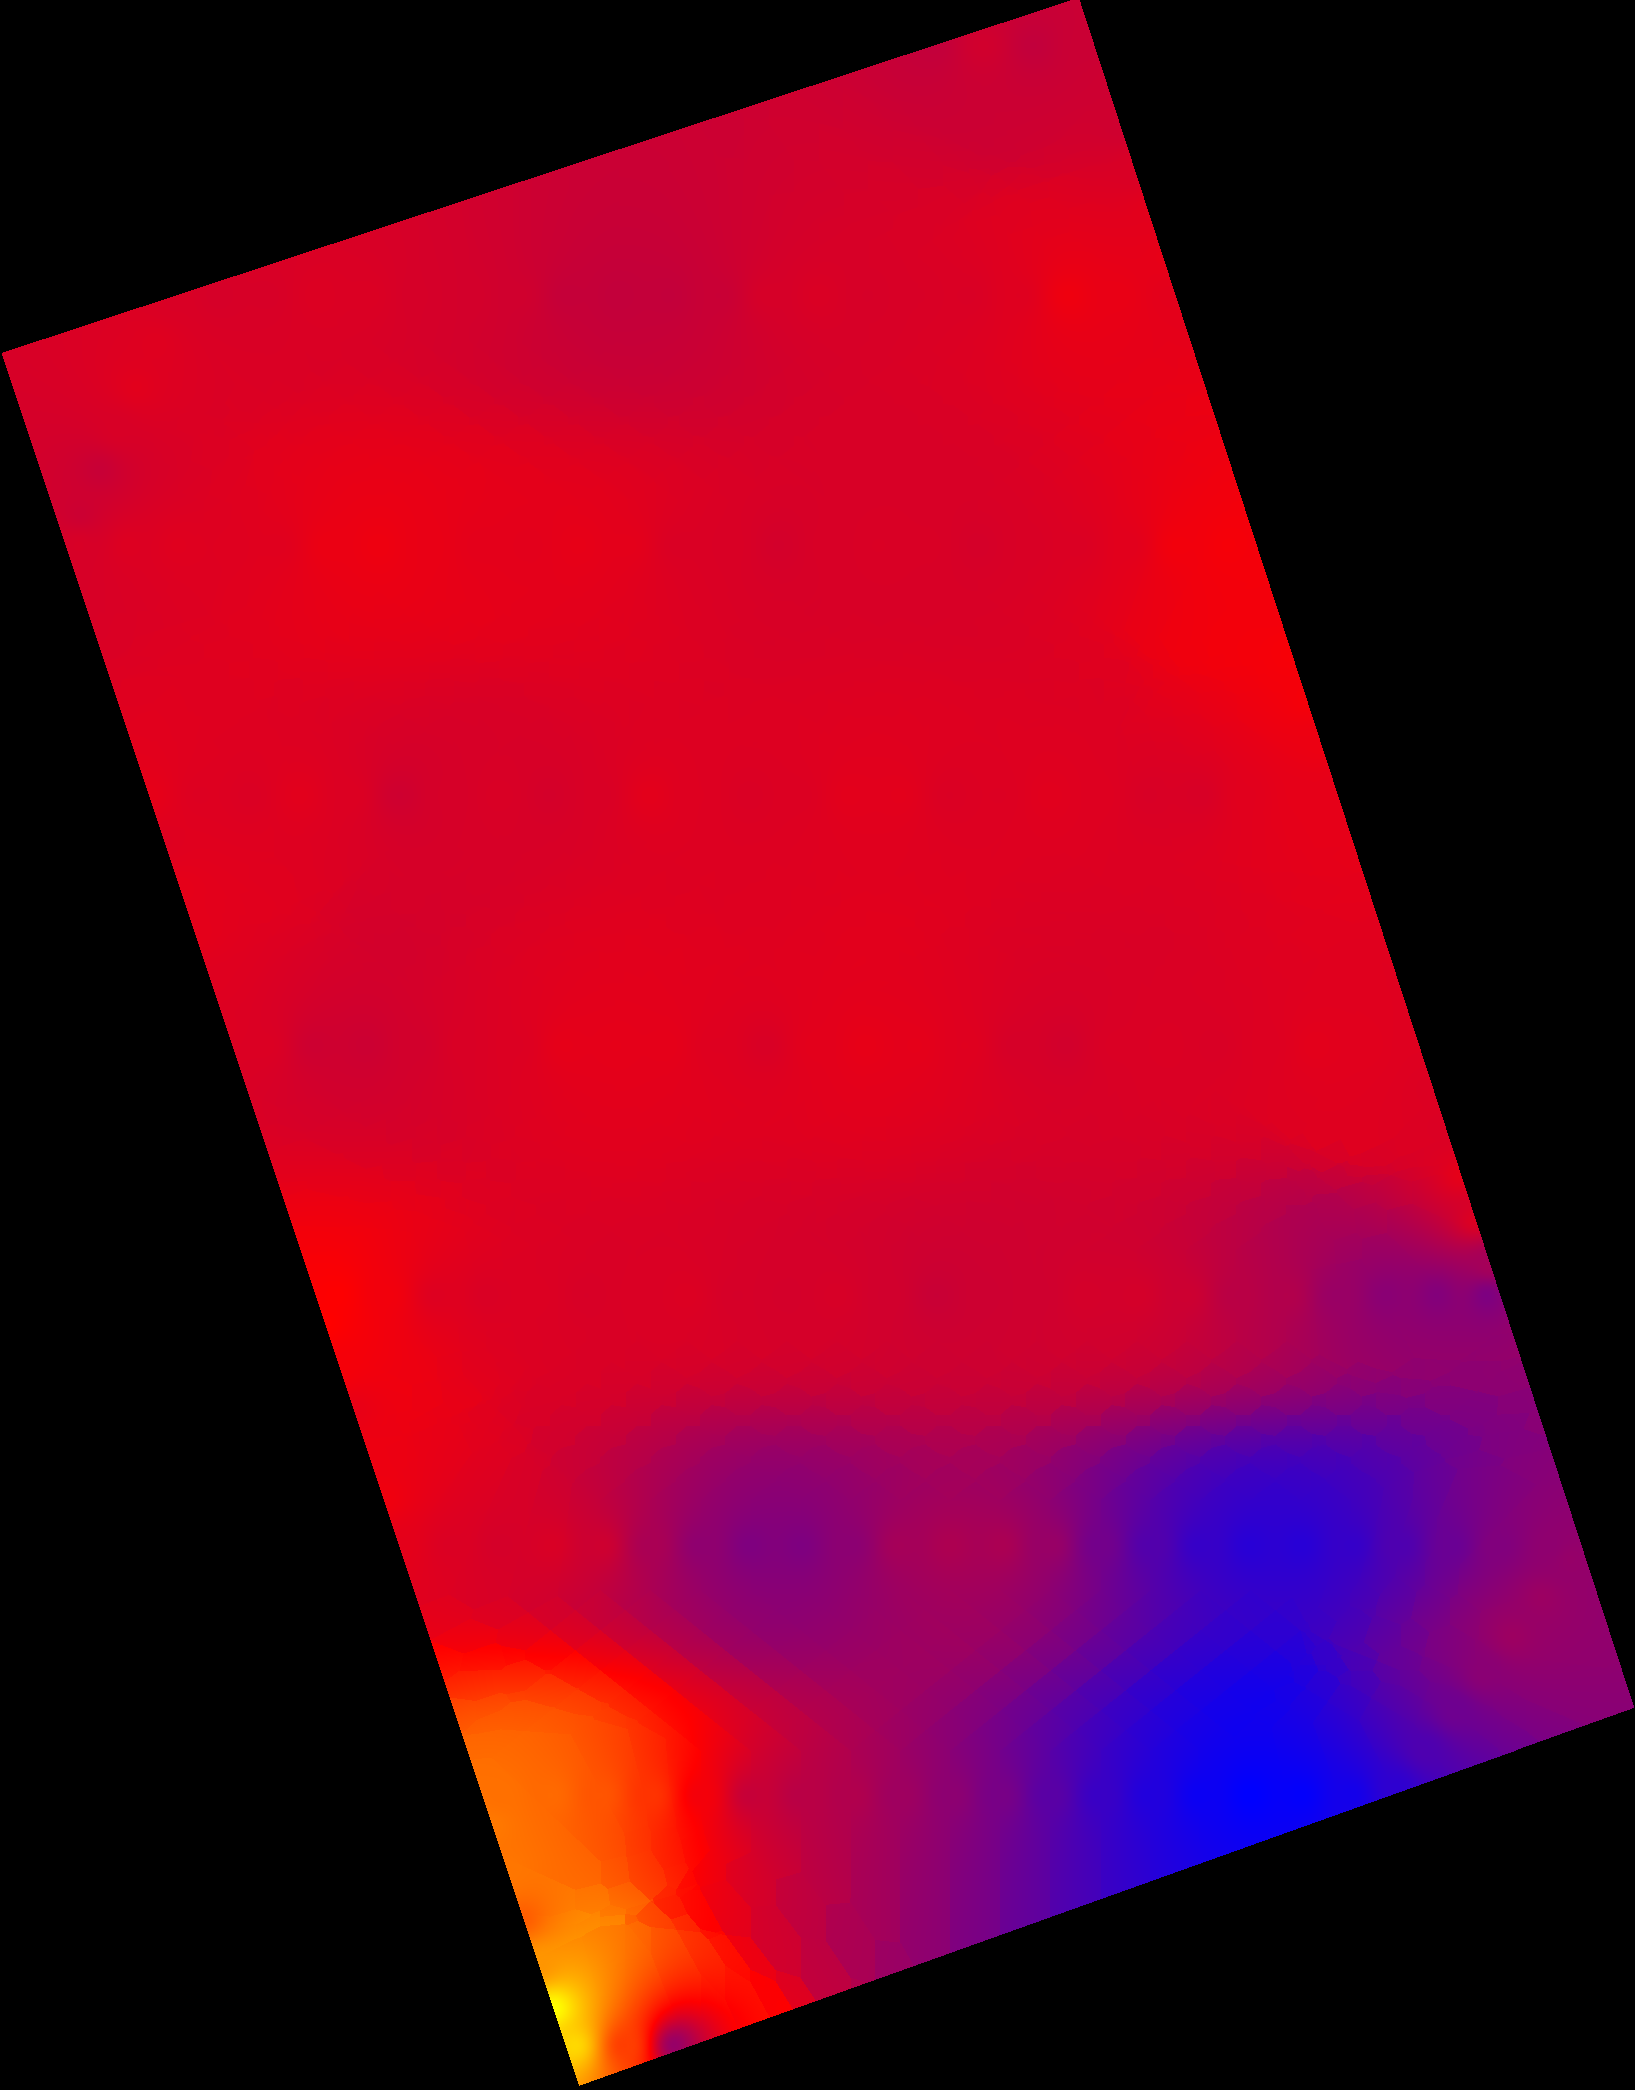
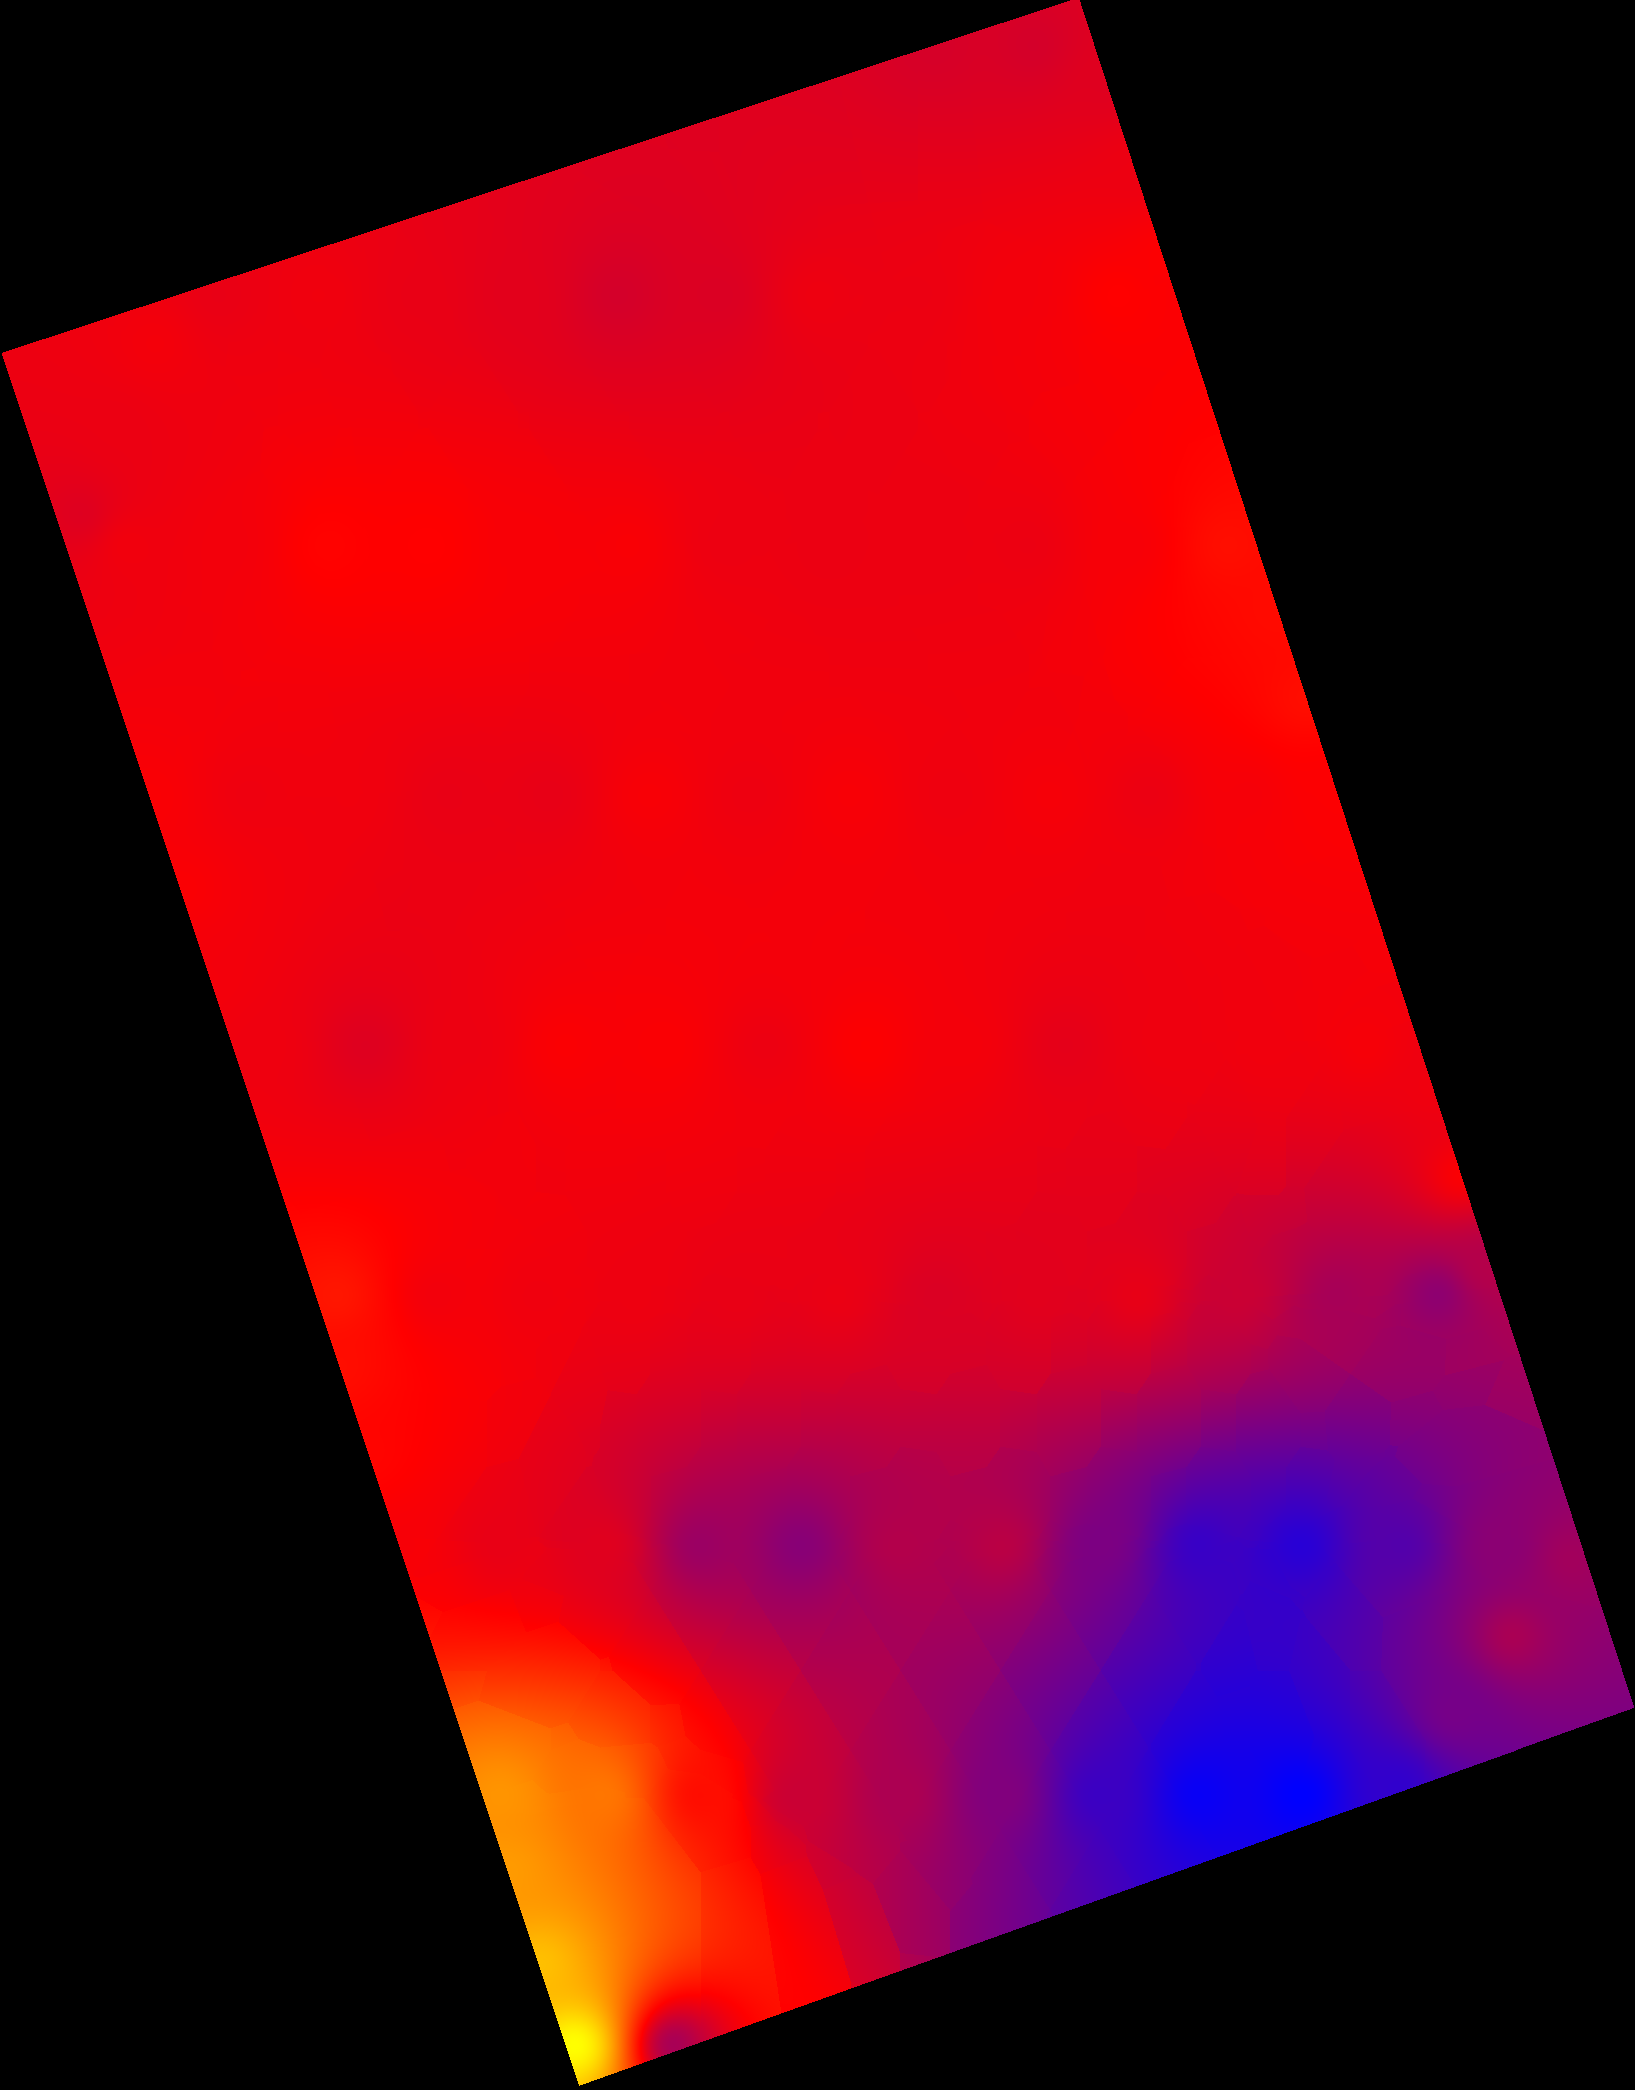
cambio en monohaz: ahora recibe el angulo y el radio cubierto se calcula en base a la prof y el angulo

diff --git a/simulations/src/main.rs b/simulations/src/main.rs
@@ -19,8 +19,8 @@ fn main() {
         }
     };
     
-    let altura: usize = matrix.height;
-    let ancho: usize = matrix.width;
+    // let altura: usize = matrix.height;
+    // let ancho: usize = matrix.width;
 
 
     let recorrido = processing::routing::generate_route(
@@ -37,7 +37,7 @@ fn main() {
     //x,y
     //2045, 665
 
-    let puntos_a_medir = processing::measuring::find_measuring_points(&recorrido, 50.0);
+    let puntos_a_medir = processing::measuring::find_measuring_points(&recorrido, 100.0);
 
     
     // for point in puntos_a_medir{
@@ -45,19 +45,19 @@ fn main() {
     // }
 
     // --- Puntos perpendiculares ---
-    let mut puntos_perpendiculares = Vec::new();
-    let mut previous_point = &(puntos_a_medir[0]);
-    let mut current_point = &(puntos_a_medir[0]);
-    for punto in &puntos_a_medir {
-        let group = get_points_perpendicular_to_this(Some(previous_point), current_point, Some(punto), 2.5);
-        puntos_perpendiculares.extend(group);
-        previous_point = current_point;
-        current_point = punto;
-    }
-    let last_group = get_points_perpendicular_to_this(Some(previous_point), current_point, None, 2.5);
-    puntos_perpendiculares.extend(last_group);
+    // let mut puntos_perpendiculares = Vec::new();
+    // let mut previous_point = &(puntos_a_medir[0]);
+    // let mut current_point = &(puntos_a_medir[0]);
+    // for punto in &puntos_a_medir {
+    //     let group = get_points_perpendicular_to_this(Some(previous_point), current_point, Some(punto), 2.5);
+    //     puntos_perpendiculares.extend(group);
+    //     previous_point = current_point;
+    //     current_point = punto;
+    // }
+    // let last_group = get_points_perpendicular_to_this(Some(previous_point), current_point, None, 2.5);
+    // puntos_perpendiculares.extend(last_group);
 
-    let medidas = processing::measuring::get_measures(MeasureMode::Circular { angle: (10.0) }, &matrix, &puntos_a_medir);
+    // let medidas = processing::measuring::get_measures(MeasureMode::Circular { angle: (10.0) }, &matrix, &puntos_a_medir);
 
     // for i in 0..ancho{
     //     for j in 0..altura {
@@ -74,30 +74,29 @@ fn main() {
     }
  
     // // --- Medidas ---
-    let full_matrix_perp   = get_measures(MeasureMode::Perpendicular { step_distance: 2.5 }, &matrix, &puntos_a_medir);
+    // let full_matrix_perp   = get_measures(MeasureMode::Perpendicular { step_distance: 2.5 }, &matrix, &puntos_a_medir);
     let full_matrix_circle = get_measures(MeasureMode::Circular { angle: 20.0 }, &matrix, &puntos_a_medir);
 
     // // --- Escritura de archivos ---
 
-    let interpolacion = interpolate(InterpolationMethod::IDW,&puntos_a_medir, &full_matrix_perp, &matrix);
+    let interpolacion = interpolate(InterpolationMethod::IDW,&puntos_a_medir, &full_matrix_circle, &matrix);
 
     makePng_with_matrix_and_interpolation(&interpolacion, &matrix);
-    //process_depth(&matrix.data);
     
     let mut res_file = File::create("res.txt").expect("No se pudo crear res.txt");
     for (x, y) in recorrido {
         writeln!(res_file, "({}, {})", x, y).expect("No se pudo escribir en res.txt");
     }
  
-    let mut points_file = File::create("points.txt").expect("No se pudo crear points.txt");
-    for (x, y) in &puntos_a_medir {
-        writeln!(points_file, "({}, {})", x, y).expect("No se pudo escribir en points.txt");
-    }
+    // let mut points_file = File::create("points.txt").expect("No se pudo crear points.txt");
+    // for (x, y) in &puntos_a_medir {
+    //     writeln!(points_file, "({}, {})", x, y).expect("No se pudo escribir en points.txt");
+    // }
  
-    let mut perp_file = File::create("perp.txt").expect("No se pudo crear perp.txt");
-    for (x, y) in puntos_perpendiculares {
-        writeln!(perp_file, "({}, {})", x, y).expect("No se pudo escribir en perp.txt");
-    }
+    // let mut perp_file = File::create("perp.txt").expect("No se pudo crear perp.txt");
+    // for (x, y) in puntos_perpendiculares {
+    //     writeln!(perp_file, "({}, {})", x, y).expect("No se pudo escribir en perp.txt");
+    // }
  
     let mut circ_file = File::create("circ.txt").expect("No se pudo crear circ.txt");
     for (x, y) in puntos_circulares {
@@ -106,27 +105,27 @@ fn main() {
 
 
     
-    // Solo escribe puntos con medida distinta de 0
-    let mut measures_perp_file = File::create("measures_perp.txt").expect("No se pudo crear measures_perp.txt");
-    for row in 0..full_matrix_perp.len() {
-        for col in 0..full_matrix_perp[row].len() {
-            let val = full_matrix_perp[row][col];
-            if val != 0.0 {
-                writeln!(measures_perp_file, "{},{},{:.4}", col, row, val); // col=x, row=y
-            }
-        }
-    }
+    // // Solo escribe puntos con medida distinta de 0
+    // let mut measures_perp_file = File::create("measures_perp.txt").expect("No se pudo crear measures_perp.txt");
+    // for row in 0..full_matrix_perp.len() {
+    //     for col in 0..full_matrix_perp[row].len() {
+    //         let val = full_matrix_perp[row][col];
+    //         if val != 0.0 {
+    //             writeln!(measures_perp_file, "{},{},{:.4}", col, row, val); // col=x, row=y
+    //         }
+    //     }
+    // }
  
-    let mut measures_circle_file = File::create("measures_circle.txt").expect("No se pudo crear.");
-    for row in 0..full_matrix_circle.len() {
-        for col in 0..full_matrix_circle[row].len() {
-            let val = full_matrix_circle[row][col];
-            if val != 0.0 {
-                // Escribimos primero columna (X) y luego fila (Y) para que Python lo lea bien
-                writeln!(measures_circle_file, "{},{},{:.4}", col, row, val)
-                    .expect("No se pudo escribir en measures_circle.txt");
-            }
-        }
-    }
+    // let mut measures_circle_file = File::create("measures_circle.txt").expect("No se pudo crear.");
+    // for row in 0..full_matrix_circle.len() {
+    //     for col in 0..full_matrix_circle[row].len() {
+    //         let val = full_matrix_circle[row][col];
+    //         if val != 0.0 {
+    //             // Escribimos primero columna (X) y luego fila (Y) para que Python lo lea bien
+    //             writeln!(measures_circle_file, "{},{},{:.4}", col, row, val)
+    //                 .expect("No se pudo escribir en measures_circle.txt");
+    //         }
+    //     }
+    // }
 
 }
